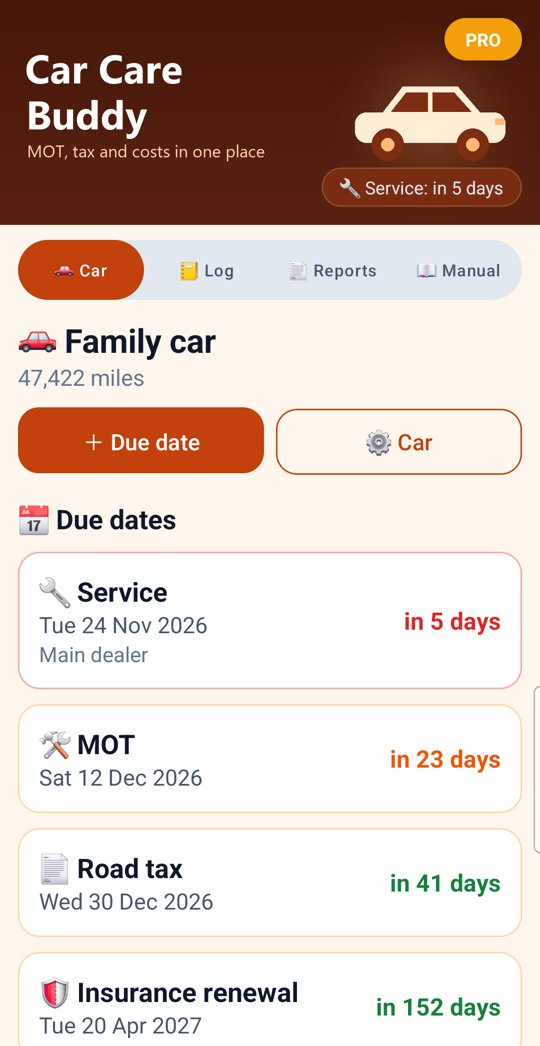
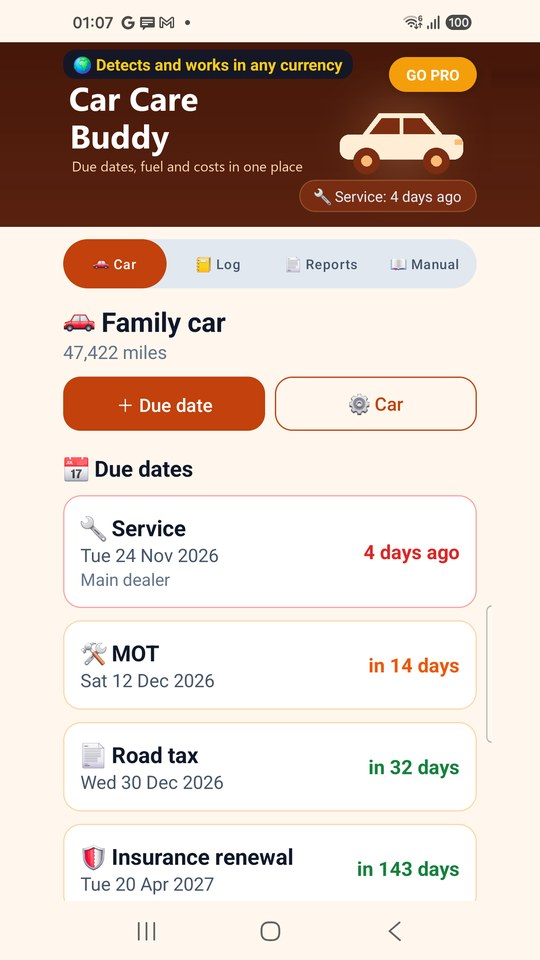
Car Care Buddy 1.4 (Build 5): any country and currency, manual word for word, new pictures

diff --git a/car-care-buddy/index.html b/car-care-buddy/index.html
@@ -4,7 +4,7 @@
     <meta charset="UTF-8">
     <meta name="viewport" content="width=device-width, initial-scale=1.0">
     <title>User Manual &amp; Screenshots — Car Care Buddy</title>
-    <meta name="description" content="Car Care Buddy reminds you before your MOT, road tax, insurance renewal and service, logs fuel, services and repairs with receipt photos, works out your mpg and makes a car history PDF. No ads, one payment, no subscription.">
+    <meta name="description" content="Car Care Buddy reminds you before your car inspection, road tax or registration, insurance renewal and service, logs fuel, services and repairs with receipt photos, works out your fuel economy and makes a car history PDF. No ads, one payment, no subscription.">
     <style>
         body { font-family: Arial, sans-serif; line-height: 1.6; background: #0A192F; color: #E2E8F0; max-width: 900px; margin: 0 auto; padding: 40px 20px; }
         h1 { color: #FDBA74; }
@@ -27,7 +27,7 @@
 </head>
 <body>
     <h1>🚗 Car Care Buddy — User Manual</h1>
-    <img src="car-care-buddy-feature-banner.png" alt="Car Care Buddy: MOT, tax and costs in one place" class="banner-img">
+    <img src="car-care-buddy-feature-banner.png" alt="Car Care Buddy: Due dates, fuel and costs in one place" class="banner-img">
     <p><a href="https://daverimmeruk.github.io/appstack-studio/index.html">&larr; Back to AppStack Studio Hub</a></p>
     <div>
         <a href="https://daverimmeruk.github.io/appstack-studio/car-care-buddy/privacy.html" class="btn">🔒 Privacy Policy</a>
@@ -41,32 +41,37 @@
 
 
         <h3>👋 What Car Care Buddy does</h3>
-        <p>Car Care Buddy keeps your car's due dates (MOT, road tax, insurance renewal, service and more) and reminds you before each one. It also keeps a log of fuel, services, repairs and other costs, with a photo of the receipt, works out your fuel economy, and makes a PDF of the car's history.</p>
-        <p>It doesn't look anything up online: the dates and costs are the ones you type in. Your MOT due date is on your last MOT certificate, and your insurance renewal date is on your policy.</p>
+        <p>Car Care Buddy keeps your car's due dates (inspection, road tax or registration, insurance renewal, service and more) and reminds you before each one. It also keeps a log of fuel, services, repairs and other costs, with a photo of the receipt, works out your fuel economy, and makes a PDF of the car's history.</p>
+        <p>It doesn't look anything up online: the dates and costs are the ones you type in. The inspection date is on your last inspection certificate or report, and your insurance renewal date is on your policy.</p>
 
         <h3>🚗 Your car</h3>
         <p>Tap ＋ Add a car and type its name (for example "Blue hatchback") and, if you like, its registration. Choose miles or km for its mileage.</p>
         <p>Tap ⚙ Car to rename it or delete it with its dates and log. With more than one car (Pro), tap the car's name at the top of 🚗 Car to switch.</p>
 
         <h3>📅 Due dates and reminders</h3>
-        <p>On 🚗 Car, tap ＋ Due date, choose what it is (MOT, road tax, insurance renewal, service, breakdown cover, warranty or other) and pick the date.</p>
+        <p>On 🚗 Car, tap ＋ Due date, choose what it is (inspection, road tax or registration, insurance renewal, service, breakdown cover, warranty or other) and pick the date.</p>
         <p>Each date shows how many days are left: orange when it's within 30 days, red when it's 7 days or less or has passed.</p>
         <p>The app reminds you at about 09:00, 30 days, 7 days and 1 day before, and on the day. Android may ask you to allow notifications. If the phone was off, you get the reminder the next morning. Switch reminders off or on in 📄 Reports. If Android blocks the app's notifications, 📄 Reports shows 🔕 Notifications are blocked: tap it to allow them.</p>
-        <p>When you log an MOT, service, insurance or road tax, the app offers to move that due date on by a year. Tap a due date to change or delete it.</p>
+        <p>When you log an inspection, service, insurance or road tax, the app offers to move that due date on by a year. Tap a due date to change or delete it.</p>
 
         <h3>📒 Log</h3>
-        <p>On 📒 Log, tap ＋ Add fuel, a service or a repair to log fuel, a service, MOT, repair, tyres, insurance, road tax, parking, a wash or anything else. Type the cost and, if you like, the mileage and a note, then take a photo of the receipt (or choose one you already took).</p>
+        <p>On 📒 Log, tap ＋ Add fuel, a service or a repair to log fuel, a service, an inspection, a repair, tyres, insurance, road tax, parking, a wash or anything else. Type the cost and, if you like, the mileage and a note, then take a photo of the receipt (or choose one you already took).</p>
         <p>Tap an entry to see its receipt, add one, or delete the entry. The top of 📒 Log shows what you've spent this year and in the last 12 months.</p>
 
         <h3>⛽ Fuel economy</h3>
-        <p>For fuel, also type the litres and the mileage, and say whether you filled the tank. When you fill up twice, the app works out the economy between the two full tanks: miles per gallon (UK gallons) or litres per 100 km. Part fills in between are added to the next full tank.</p>
+        <p>For fuel, also type the litres (gallons in the USA) and the mileage, and say whether you filled the tank. When you fill up twice, the app works out the economy between the two full tanks: litres per 100 km, or miles per gallon (US gallons in the USA, UK gallons elsewhere). Part fills in between are added to the next full tank.</p>
         <p>If you forget a fill-up, the next figure will look too good: just keep logging and it evens out. A fill-up logged without the mileage can't be placed, so the economy starts again from the next full tank with a mileage.</p>
+
+        <h3>🌍 Your country and currency</h3>
+        <p>The app uses your country's names for the car inspection and the road tax or registration, for example MOT and road tax in the UK, NCT and motor tax in Ireland, HU (TÜV) and Kfz-Steuer in Germany, contrôle technique in France, ITV in Spain, revisione in Italy, APK in the Netherlands and WoF in New Zealand. A new car starts in miles in the UK and the USA and in km elsewhere (you can change it for each car), and fuel is in US gallons in the USA.</p>
+        <p>It finds your country from your SIM card; tap Change the country in 📄 Reports to choose another. Countries without their own names use general ones.</p>
+        <p>Costs are in your phone's currency, written the way your phone writes money; tap Change the currency in 📄 Reports to use another. The app never converts amounts.</p>
 
         <h3>📄 PDF and spreadsheet</h3>
         <ul>
             <li>📄 Car history PDF (free): the due dates, costs by kind, fuel economy and every log entry.</li>
             <li>📄 Car history PDF with receipt photos (Pro): the same, with the photo of each receipt.</li>
-            <li>📊 Spreadsheet (Pro): every log entry as a CSV for Excel or Google Sheets.</li>
+            <li>📊 Spreadsheet (Pro): every log entry as a CSV for Excel or Google Sheets, with the currency and fuel unit in their own columns.</li>
         </ul>
         <p>A full history with receipts is handy if you sell the car, claim on a warranty or argue a repair.</p>
 
@@ -80,20 +85,21 @@
         <p>Google Play handles the Pro purchase.</p>
 
         <h3>About</h3>
-        <p>Car Care Buddy v1.3 (Build 4)</p>
+        <p>Car Care Buddy v1.4 (Build 5)</p>
         <p>Publisher: AppStack Studio</p>
 
         <h3>⚡ WHY CAR CARE BUDDY</h3>
         <table class="rival-table">
             <tr><th>Question</th><th>Many car apps</th><th>Car Care Buddy</th></tr>
-            <tr><td>Reminders</td><td>Often one date, or a subscription</td><td><strong>MOT, tax, insurance, service and more: 30 days, 7 days, 1 day before and on the day</strong></td></tr>
+            <tr><td>Reminders</td><td>Often one date, or a subscription</td><td><strong>Inspection, tax, insurance, service and more: 30 days, 7 days, 1 day before and on the day</strong></td></tr>
+            <tr><td>Country</td><td>Often made for one country</td><td><strong>Your country's names (MOT, NCT, HU (TÜV), contrôle technique, ITV …), miles or km, and any currency</strong></td></tr>
             <tr><td>Receipts</td><td>Numbers only</td><td><strong>A photo of each receipt, printed in the history PDF (Pro)</strong></td></tr>
             <tr><td>Price</td><td>Free with ads or a subscription</td><td><strong>Free for 1 car; Pro is one payment for life (no subscription)</strong></td></tr>
         </table>
         <ul>
             <li>📅 Every due date in one list, coloured as it gets close.</li>
             <li>🔔 Reminders 30 days, 7 days and 1 day before, and on the day.</li>
-            <li>⛽ Fuel economy in UK mpg (or l/100 km) from full tank to full tank.</li>
+            <li>⛽ Fuel economy in l/100 km or mpg (US gallons in the USA, UK gallons elsewhere) from full tank to full tank.</li>
             <li>📄 A car history PDF: due dates, costs, fuel economy and every entry.</li>
         </ul>
         <h3>⚠ GOOD TO KNOW</h3>
@@ -105,12 +111,12 @@
     </div>
     <h2>App Screenshots Gallery</h2>
     <div class="screenshot-grid">
-        <div class="screenshot-card"><img src="car-care-buddy-due-dates.jpg" alt="Due dates for MOT, service, road tax and insurance"><p><strong>1. Due dates</strong><br>Every due date with the days left, coloured as it gets close.</p></div>
-        <div class="screenshot-card"><img src="car-care-buddy-fuel-economy.jpg" alt="Fuel economy in mpg"><p><strong>2. Fuel economy</strong><br>mpg from full tank to full tank, last tank and average.</p></div>
+        <div class="screenshot-card"><img src="car-care-buddy-due-dates.jpg" alt="Due dates for the inspection, service, road tax and insurance"><p><strong>1. Due dates</strong><br>Every due date with the days left, coloured as it gets close.</p></div>
+        <div class="screenshot-card"><img src="car-care-buddy-fuel-economy.jpg" alt="Fuel economy"><p><strong>2. Fuel economy</strong><br>Economy from full tank to full tank, last tank and average.</p></div>
         <div class="screenshot-card"><img src="car-care-buddy-log.jpg" alt="Log of fuel, parking and other costs"><p><strong>3. Log</strong><br>Fuel, services, repairs and more, with receipt photos and totals.</p></div>
-        <div class="screenshot-card"><img src="car-care-buddy-reports.jpg" alt="Car history PDF, spreadsheet and reminders"><p><strong>4. Reports</strong><br>Car history PDF, spreadsheet and the reminder switch.</p></div>
+        <div class="screenshot-card"><img src="car-care-buddy-reports.jpg" alt="Car history PDF, spreadsheet, country and currency, and reminders"><p><strong>4. Reports</strong><br>Car history PDF, spreadsheet, 🌍 country and currency, and the reminder switch.</p></div>
     </div>
-    <p style="font-size: 13px; color: #94A3B8;">Screenshots: Car Care Buddy 1.0 on a Samsung Galaxy S24, with sample data and drawn sample receipts.</p>
+    <p style="font-size: 13px; color: #94A3B8;">Screenshots: Car Care Buddy 1.4 on a Samsung Galaxy S24, with sample data and drawn sample receipts.</p>
     <div class="footer">
         &copy; 2026 AppStack Studio. All rights reserved. | Support: <a href="mailto:appstack1966@gmail.com">appstack1966@gmail.com</a>
     </div>

diff --git a/car-care-buddy/support.html b/car-care-buddy/support.html
@@ -31,8 +31,8 @@
         <div class="card">
             <h2>Car Care Buddy — Questions &amp; Answers</h2>
 
-            <h3>1. Where do I find my MOT date?</h3>
-            <p>It's on your last MOT certificate. A car's first MOT is due 3 years after it was first registered. Your insurance renewal date is on your policy.</p>
+            <h3>1. Where do I find my inspection date?</h3>
+            <p>It's on your last inspection certificate or report (in the UK, your last MOT certificate: a car's first MOT is due 3 years after it was first registered). Your insurance renewal date is on your policy.</p>
 
             <h3>2. When will I be reminded?</h3>
             <p>At about 09:00, 30 days, 7 days and 1 day before each due date, and on the day. Check that reminders are on in 📄 Reports. If Android blocks the app's notifications, 📄 Reports shows 🔕 Notifications are blocked: tap it to allow them.</p>
@@ -40,16 +40,19 @@
             <h3>3. Why is there no fuel economy yet?</h3>
             <p>It needs two full tanks with the mileage typed in. Part fills in between are added to the next full tank.</p>
 
-            <h3>4. My mpg looks too high.</h3>
+            <h3>4. My fuel economy looks too good.</h3>
             <p>A fill-up was probably not logged. Keep logging every fill-up and the average evens out. A fill-up logged without the mileage starts the count again from the next full tank with a mileage.</p>
 
             <h3>5. Can I use km and litres per 100 km?</h3>
             <p>Yes. In ⚙ Car, tick "Mileage in km": distances show in km and economy in l/100 km.</p>
 
-            <h3>6. Does it check my MOT or tax online?</h3>
+            <h3>6. Does it check my inspection or tax online?</h3>
             <p>No. The app doesn't look anything up and doesn't send your registration anywhere. The dates are the ones you type in.</p>
 
-            <h3>7. I bought Pro on another phone. How do I get it back?</h3>
+            <h3>7. It shows another country's names (MOT, NCT …) or the wrong currency.</h3>
+            <p>The country comes from your SIM card and the currency from your phone's settings. Tap Change the country or Change the currency in 📄 Reports. The app never converts amounts.</p>
+
+            <h3>8. I bought Pro on another phone. How do I get it back?</h3>
             <p>Use the same Google account, tap GO PRO at the top, then Restore purchase.</p>
         </div>
 

diff --git a/car-care-buddy/privacy.html b/car-care-buddy/privacy.html
@@ -48,7 +48,7 @@
             <h2>Car Care Buddy — Privacy Policy</h2>
             <p class="meta">
                 <strong>Package Name:</strong> <code>com.appstackstudio.carcarebuddy</code> |
-                <strong>Effective Date:</strong> 19 November 2026 |
+                <strong>Effective Date:</strong> 27 November 2026 |
                 <strong>Developer:</strong> AppStack Studio
             </p>
 
@@ -57,9 +57,10 @@
             <h3>2. Information Stored on Your Phone Only</h3>
             <ul>
                 <li><strong>Cars:</strong> the name, the registration if you type it, and miles or km.</li>
-                <li><strong>Due dates:</strong> what is due (MOT, road tax, insurance renewal, service, breakdown cover, warranty or other), the date and a note.</li>
+                <li><strong>Due dates:</strong> what is due (inspection, road tax or registration, insurance renewal, service, breakdown cover, warranty or other), the date and a note.</li>
                 <li><strong>Log:</strong> the date, kind, cost, mileage, litres (fuel), a note, and the receipt photo you take or choose (stored as a smaller copy, at most 1600 pixels across).</li>
-                <li><strong>Settings:</strong> whether reminders are on, which reminders were already shown, the car shown, whether the welcome guide was shown and whether Pro is unlocked.</li>
+                <li><strong>Settings:</strong> whether reminders are on, which reminders were already shown, the car shown, your country and currency if you chose them, whether the welcome guide was shown and whether Pro is unlocked.</li>
+                <li><strong>Country:</strong> to use your country's names (for example MOT or NCT), the app reads only the country code of your SIM card, your mobile network or your phone's region setting. It needs no permission and is not sent anywhere.</li>
             </ul>
             <h3>3. Photos</h3>
             <p>Photos come from your phone's own camera app or from Android's photo picker, which only gives the app the picture you choose. The app has no camera or storage permission and never reads your other photos.</p>
